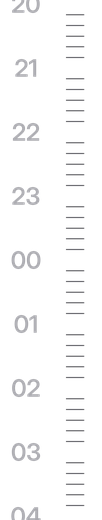
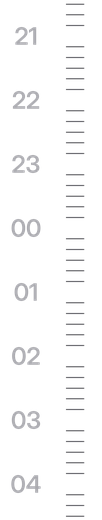
Лінійка: варіант face-108 — коротка риска повзе щохвилини; біля підписів годин у ній плавно з'являється розріз під цифрами [skip ci]
Claude-Session: https://claude.ai/code/session_01WysSwiNnPXkBgFifEqasra

diff --git a/windows/faces/ruler/make.py b/windows/faces/ruler/make.py
@@ -35,13 +35,12 @@ def digits(n,f,col,h):
 MID=260; PXH=64; SX0=110      # центр шкали, пікселів на годину, лівий край смуги шкали
 def strip(Hh,dim):
     im=Image.new("RGBA",((W-SX0)*K,H*K),(0,0,0,0)); d=ImageDraw.Draw(im); f=F("SemiBold",24)
-    c=Hh                        # посередині кадру — H:00, навпроти риски
+    c=Hh+0.5                    # посередині кадру — H:30; риска ходить між H:00 і H+1:00
     for h10 in range(int((c-5)*6),int((c+5)*6)+2):
         h=h10/6; y=MID+(h-c)*PXH
         if not -10<y<H+10: continue
         big=h10%6==0; lc=(110,110,110) if dim else ((255,255,255) if big else DT)
-        if not (h10==Hh*6 and not dim):   # поділку поточної години не малюємо — там риска (шкала лежить над нею)
-            d.line([((160 if big else 176)-SX0)*K,y*K,(194-SX0)*K,y*K],fill=lc,width=(3 if big else 1)*K)
+        d.line([((160 if big else 176)-SX0)*K,y*K,(194-SX0)*K,y*K],fill=lc,width=(3 if big else 1)*K)
         if big: d.text(((136-SX0)*K,y*K),"%02d"%((h10//6)%24),font=f,fill=(90,90,90) if dim else LG,anchor="mm")
     return down(im)
 PY0,PH=MID-40,80               # область кадрів риски
@@ -52,24 +51,26 @@ def pointer(m,dim):
 WEEK=["НД","ПН","ВТ","СР","ЧТ","ПТ","СБ"]
 for t,dim in (("n",False),("a",True)):
     if t=="n":
-        # шкала їде щохвилини (60 кадрів: поділки повторюються щогодини), риска стоїть посередині;
-        # поточна година — біля риски (підписи на шкалі не можуть їхати разом із хвилинами — браслет не дає «хвилину доби»)
-        # шкала з підписами годин їде під нерухомою рискою: щогодини зсувається на одну поділку (24 кадри),
-        # поточна година — навпроти риски; хвилини показують великі цифри
-        array("scale_n",[strip(h,False) for h in range(24)]); values("scale_n","timeHour","scale_n",range(24))
-        # довга риска з розривом під підписом поточної години: плавне згасання 9 px, розрив відцентровано
-        # за видимими пікселями цифр (центр — піксель 135, напр. «09» займає 121…149)
-        im=Image.new("RGBA",(W*K,24*K),(0,0,0,0)); d=ImageDraw.Draw(im)
-        d.line([18*K,12*K,196*K,12*K],fill=OR,width=2*K); d.polygon([(200*K,4*K),(188*K,12*K),(200*K,20*K)],fill=OR)
-        GL,GR,FL,FR=124,147,9,12   # нуль — 124…147; зліва гасне 9 px (з 115), справа довше — 12 px (з 159), бо на око правий кінець коротший
-        al=im.getchannel("A"); px=al.load()
-        for X in range(W*K):
-            x=(X+0.5)/K; f=1.0 if x<GL-FL or x>GR+FR else (max(0,(GL-x)/FL) if x<135.5 else max(0,(x-GR)/FR))
-            if f<1:
-                for Y in range(24*K): px[X,Y]=round(px[X,Y]*f)
-        im.putalpha(al)
-        image("ptr_n",down(im)); lay(t,"ptr_n",0,MID-12)
-        lay(t,"v_scale_n",SX0,0)     # шкала з підписами — над рискою
+        # шкала з підписами зсувається раз на годину (H:30 посередині), коротка риска повзе щохвилини від H:00 до H+1:00.
+        # Підписи H і H+1 стоять там, де риска починає й закінчує годину. Коли риска підходить до цифр, у ній плавно
+        # з'являється розріз під цифрами (як підкладка: цифри над рискою), а відійшовши — так само плавно зникає.
+        array("scale_n",[strip(h,False) for h in range(24)]); values("scale_n","timeHour","scale_n",range(24)); lay(t,"v_scale_n",SX0,0)
+        GL,GR,FL,FR=124,147,9,12      # розріз під цифрами (центр — піксель 135), згасання зліва 9 px, справа 12 px
+        def ptr(m):
+            im=Image.new("RGBA",(W*K,PH*K),(0,0,0,0)); d=ImageDraw.Draw(im); y=40+(m/60-0.5)*PXH
+            d.line([116*K,y*K,196*K,y*K],fill=OR,width=2*K); d.polygon([(200*K,(y-8)*K),(188*K,y*K),(200*K,(y+8)*K)],fill=OR)
+            dy=min(abs(y-(40-PXH/2)),abs(y-(40+PXH/2)))     # відстань до найближчого підпису (H або H+1)
+            g=max(0.0,min(1.0,(14-dy)/5))                     # 1 — риска на цифрах (|dy|≤9), 0 — далі за 14 px
+            if g>0:
+                al=im.getchannel("A"); px=al.load()
+                for X in range(W*K):
+                    x=(X+0.5)/K; fx=0.0 if x<135.5 else (1.0 if x>GR+FR else max(0,(x-GR)/FR))   # ліворуч від цифр риска коротка — хвостик зникає повністю
+                    f=1-g*(1-fx)
+                    if f<1:
+                        for Y in range(PH*K): px[X,Y]=round(px[X,Y]*f)
+                im.putalpha(al)
+            return down(im)
+        array("ptr_n",[ptr(m) for m in range(60)]); values("ptr_n","timeMinute","ptr_n",range(60)); lay(t,"v_ptr_n",0,PY0)
     else:
         # AOD — без руху: нерухомий відрізок шкали з рискою посередині й поточна година біля неї
         im=Image.new("RGBA",(W*K,120*K),(0,0,0,0)); d=ImageDraw.Draw(im)
